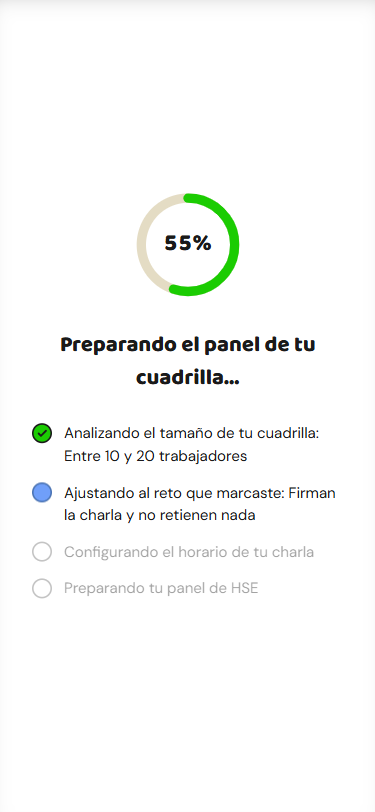
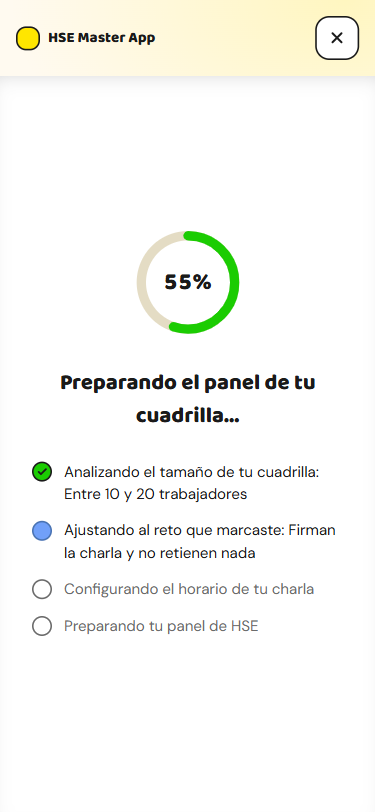
Sesion 4: corrige los defectos de la ronda 10 en onboarding y paywall
Onboarding: durante el loading (~5s) solo se oculta la barra de
progreso y la flecha de atras (#onbHeaderMedio) -> el logo y la X se
quedan visibles, cumpliendo la regla de latencia "3s+ necesita
cancelar". El resume desde el paywall ahora marca los 3 chips
guardados (cuadrilla/reto/horario), no solo el ultimo. Las lineas
pendientes del loading dejan de usar opacity 0.4 sobre texto negro
(contraste insuficiente) y pasan a --ink-2. El aviso de error del
input libre pasa a --rojo-texto. Se detecto y corrigio ademas un bug
del propio proceso de evidencia: la captura "oficial" del paso 1
mostraba el paso 4 porque sessionStorage de una prueba anterior
disparaba el auto-resume al recargar.

Paywall: los .pw-reveal parten de opacity:1 en CSS base para que un
fallo de JS no deje la pantalla en blanco. El CTA pasa de "Activar mi
prueba gratis" (no activaba nada aun) a "Crear mi acceso y activar la
prueba". El icono del casco usa currentColor. Se fusiona la frase de
dolor y la de beneficio en una sola linea.

diff --git a/onboarding.html b/onboarding.html
@@ -19,7 +19,7 @@
     --amarillo: #ffe600; --amarillo-sombra: #e0bf00;
     --verde: #1bcc02; --verde-sombra: #1b9f03;
     --azul: #3e7ef7; --azul-sombra: #0a4299;
-    --rojo: #ff4e0e; --rojo-sombra: #c75126;
+    --rojo: #ff4e0e; --rojo-sombra: #c75126; --rojo-texto: #a83d1a;
     --neutro-track: #e4dcc4;
     --font-display: 'Baloo 2', sans-serif; --font-body: 'DM Sans', sans-serif;
   }
@@ -38,7 +38,8 @@
 
   /* ===== HEADER: logo + atrás + barra de progreso ===== */
   .onb-header { display: flex; align-items: center; gap: 12px; padding: 16px; flex-shrink: 0; }
-  .onb-header.oculto { display: none; }
+  .onb-header-medio { flex: 1; display: flex; align-items: center; gap: 12px; }
+  .onb-header-medio.oculto { visibility: hidden; }
   .onb-logo { display: flex; align-items: center; gap: 8px; text-decoration: none; color: var(--ink);
               font-family: var(--font-display); font-weight: 800; font-size: 15px; flex-shrink: 0; }
   .onb-logo .dot { width: 24px; height: 24px; border-radius: 10px; background: var(--amarillo); border: 2px solid var(--ink); }
@@ -101,7 +102,7 @@
                           text-underline-offset: 3px; cursor: pointer; align-self: flex-start; }
   .onb-input-wrap { margin-top: 16px; display: none; flex-direction: column; gap: 12px; }
   .onb-input-wrap.show { display: flex; }
-  .onb-hint { font-size: 13px; color: var(--rojo-sombra); font-weight: 700; display: none; }
+  .onb-hint { font-size: 13px; color: var(--rojo-texto); font-weight: 700; display: none; }
   .onb-hint.show { display: block; }
   .onb-input {
     width: 100%; height: 56px; border-radius: 16px; border: 3px solid var(--ink); background: var(--surface);
@@ -148,9 +149,10 @@
   .onb-anillo.listo .pct svg { opacity: 1; transform: rotate(0deg) scale(1); }
   .onb-loading h2 { font-family: var(--font-display); font-size: 22px; font-weight: 800; text-align: center; }
   .onb-lineas { width: 100%; max-width: 320px; display: flex; flex-direction: column; gap: 14px; }
-  .onb-linea { display: flex; align-items: flex-start; gap: 12px; font-size: 15px; opacity: 0.4; }
-  .js-motion .onb-linea { transition: opacity 300ms ease; }
-  .onb-linea.vista { opacity: 1; }
+  .onb-linea { display: flex; align-items: flex-start; gap: 12px; font-size: 15px; }
+  .onb-linea .txt { color: var(--ink-2); }
+  .js-motion .onb-linea .txt { transition: color 300ms ease; }
+  .onb-linea.vista .txt { color: var(--ink); }
   .onb-linea .marca { width: 20px; height: 20px; border-radius: 999px; flex-shrink: 0; margin-top: 1px;
                        border: 2px solid var(--ink-2); display: flex; align-items: center; justify-content: center; }
   .onb-linea .marca svg { width: 11px; height: 11px; opacity: 0; }
@@ -185,11 +187,13 @@
 
 <div class="onb-header">
   <a href="landing.html" class="onb-logo" id="onbLogo" aria-label="Ir al inicio"><span class="dot"></span>HSE Master App</a>
-  <button type="button" class="onb-atras" id="onbAtras" aria-label="Volver a la pregunta anterior">
-    <svg width="20" height="20" viewBox="0 0 24 24" fill="none" stroke="currentColor" stroke-width="2.6" stroke-linecap="round" stroke-linejoin="round"><path d="m15 18-6-6 6-6"/></svg>
-  </button>
-  <div class="onb-progress"><div class="onb-progress-fill" id="onbProgressFill"></div></div>
-  <span class="onb-pct" id="onbPct">8%</span>
+  <div class="onb-header-medio" id="onbHeaderMedio">
+    <button type="button" class="onb-atras" id="onbAtras" aria-label="Volver a la pregunta anterior">
+      <svg width="20" height="20" viewBox="0 0 24 24" fill="none" stroke="currentColor" stroke-width="2.6" stroke-linecap="round" stroke-linejoin="round"><path d="m15 18-6-6 6-6"/></svg>
+    </button>
+    <div class="onb-progress"><div class="onb-progress-fill" id="onbProgressFill"></div></div>
+    <span class="onb-pct" id="onbPct">8%</span>
+  </div>
   <button type="button" class="onb-salir" id="onbSalir" aria-label="Salir del recorrido de bienvenida">
     <svg width="18" height="18" viewBox="0 0 24 24" fill="none" stroke="currentColor" stroke-width="2.6" stroke-linecap="round" stroke-linejoin="round"><path d="M18 6 6 18M6 6l12 12"/></svg>
   </button>
@@ -331,7 +335,7 @@
     atrasBtn.classList.toggle('show', paso > 1 && paso < 5);
   }
   function actualizarHeader(paso) {
-    document.querySelector('.onb-header').classList.toggle('oculto', paso === 5);
+    document.getElementById('onbHeaderMedio').classList.toggle('oculto', paso === 5);
   }
 
   let transicionando = false;
@@ -559,14 +563,19 @@
   animarChipsDelPaso(pasos[0]);
 
   // Si ya hay respuestas guardadas en esta sesión (viene de "volver" desde el paywall), no las repite desde cero.
+  function marcarChipGuardado(grupo, valor) {
+    if (!valor) return;
+    const chip = document.querySelector(`[data-grupo="${grupo}"] .onb-chip[data-valor="${CSS.escape(valor)}"]`);
+    if (chip) { chip.classList.add('seleccionado'); chip.setAttribute('aria-checked', 'true'); }
+  }
   try {
     const guardado = JSON.parse(sessionStorage.getItem('hseOnboarding') || 'null');
     if (guardado && guardado.cuadrilla && guardado.reto && guardado.horario) {
       Object.assign(respuestas, guardado);
       irAPaso(4, 'adelante');
-      const valorHorario = CSS.escape(guardado.horario);
-      const chipHorario = document.querySelector(`[data-grupo="horario"] .onb-chip[data-valor="${valorHorario}"]`);
-      if (chipHorario) { chipHorario.classList.add('seleccionado'); chipHorario.setAttribute('aria-checked', 'true'); }
+      marcarChipGuardado('cuadrilla', guardado.cuadrilla);
+      if (guardado.reto !== 'otra') marcarChipGuardado('reto', guardado.reto);
+      marcarChipGuardado('horario', guardado.horario);
     }
   } catch {}
 </script>

diff --git a/paywall.html b/paywall.html
@@ -41,13 +41,12 @@
   .pw-cerrar { width: 44px; height: 44px; border-radius: 16px; border: 3px solid var(--ink); background: var(--surface);
                color: var(--ink); display: flex; align-items: center; justify-content: center; cursor: pointer; text-decoration: none; }
 
-  .pw-reveal { opacity: 0; transform: translateY(14px); }
-  .js-motion .pw-reveal { transition: opacity 400ms ease, transform 400ms ease; }
-  .pw-reveal.in { opacity: 1; transform: translateY(0); }
+  .pw-reveal { opacity: 1; transform: none; }
+  .js-motion .pw-reveal { opacity: 0; transform: translateY(14px); transition: opacity 400ms ease, transform 400ms ease; }
+  .js-motion .pw-reveal.in { opacity: 1; transform: translateY(0); }
 
   .pw-headline { font-family: var(--font-display); font-size: 28px; font-weight: 800; line-height: 1.15; letter-spacing: -0.01em; }
   .pw-headline em { font-style: normal; color: var(--azul-sombra); }
-  .pw-sub { margin-top: 10px; font-size: 13px; color: var(--ink-2); font-weight: 700; }
   .pw-emocion { margin-top: 10px; font-size: 14px; font-weight: 700; color: var(--ink); line-height: 1.4; }
   .pw-emocion b { color: var(--rojo-texto); }
 
@@ -132,12 +131,11 @@
 
 <main class="wrap">
   <h1 class="pw-headline pw-reveal">Tu panel para <span id="pwCuadrilla">tu cuadrilla</span> está <em>listo</em></h1>
-  <p class="pw-emocion pw-reveal">Firman la charla en la mañana y a los 10 minutos ya tienen <b>la mano en la línea de fuego</b>.</p>
-  <p class="pw-sub pw-reveal">Desde hoy ves en 10 segundos quién de tu cuadrilla está listo para el pozo — hecho con tus 4 respuestas, sin tarjeta.</p>
+  <p class="pw-emocion pw-reveal">Firman la charla y a los 10 minutos ya tienen <b>la mano en la línea de fuego</b> — desde hoy ves en 10 segundos quién sí está listo para el pozo.</p>
 
   <div class="pw-bloque pw-reveal">
     <div class="pw-linea">
-      <div class="riel"><span class="nodo casco"><svg viewBox="0 0 24 24" fill="none" stroke="#1a1a1a" stroke-width="2.6" stroke-linecap="round" stroke-linejoin="round"><path d="M3.5 17.5h17"/><path d="M5 17.5Q5 7 12 7Q19 7 19 17.5"/><path d="M12 7V4"/></svg></span><span class="conector"></span></div>
+      <div class="riel"><span class="nodo casco"><svg viewBox="0 0 24 24" fill="none" stroke="currentColor" stroke-width="2.6" stroke-linecap="round" stroke-linejoin="round"><path d="M3.5 17.5h17"/><path d="M5 17.5Q5 7 12 7Q19 7 19 17.5"/><path d="M12 7V4"/></svg></span><span class="conector"></span></div>
       <div class="contenido">
         <p class="titulo">Hoy — tu cuadrilla ya corre el Pase, sin límites</p>
       </div>
@@ -181,7 +179,7 @@
   </div>
 
   <div class="pw-cta-wrap pw-reveal">
-    <button type="button" class="pw-boton" id="pwActivar">Activar mi prueba gratis de 14 días</button>
+    <button type="button" class="pw-boton" id="pwActivar">Crear mi acceso y activar la prueba</button>
     <p class="pw-reversibilidad">Hoy no pagas nada · Sin tarjeta</p>
     <p class="pw-garantia"><b>Compromiso del Primer Pase</b> — si tu cuadrilla no completa su primera charla de 3 minutos el día 1, te ayudamos sin costo</p>
   </div>

diff --git a/ESTADO.md b/ESTADO.md
@@ -1,7 +1,7 @@
 # ESTADO — HSE Master App
 Última actualización: 2026-10-17 | Sesión actual: 4
 
-⏸ CHECKPOINT — Sesión 4 (onboarding, paywall), ronda 9 de ambas YA ENTREGADA y YA CORREGIDA (sin relanzar ronda 10 todavía). Onboarding ronda 9: usabilidad 28/40, craft 14/20 (ambos bajaron). La ronda 9 explicó POR QUÉ venía oscilando desde la 7: marcó que paso 1 centrado + pasos 2/4 anclados arriba (la decisión de la ronda 8) rompe la heurística de consistencia — "misma composición, posición distinta salta entre preguntas". Se zanja así (no se vuelve a tocar sin evidencia nueva): TODAS las preguntas (1/2/4) anclan arriba por igual; centrado queda SOLO para reconocimiento (3) y loading (5), que son pantallas de otro tipo (interstitial, sin pregunta). También se corrigió: doble-tap en un chip ya no dispara 2 transiciones a la vez (bandera `transicionando`); `.onb-paso.entrando-der` ya tenía `opacity` faltante en la transición de "Atrás"; se quitó un selector CSS muerto de un refactor anterior. Paywall ronda 9: usabilidad 30/40, craft 14/20, copy 17/20 (los 3 bajaron tras pasar el umbral en craft/copy la ronda 8 — ver fixes). Fixes de paywall ronda 9: el rojo de texto #A83D1A (ronda 7) estaba huérfano fuera de los tokens → ahora es `--rojo-texto` en `:root`, documentado en FICHA-ARTE como un 3er tono del rojo solo para texto; el script completo quedó envuelto en try/finally para que un error en cualquier parte no deje la pantalla en blanco (el `revelarTodo()` corre siempre); el nodo "Día 12" compartía el mismo verde sólido que "Hoy" (ya ocurrió) → gana su propio estado amarillo intermedio; "Compromiso del Primer Pase" salió de la oración larga de reversibilidad y ahora es su propia tarjeta con borde y tinte, con peso visual propio; el check del plan elegido ahora aparece con transición de opacidad en vez de cortar seco. Próximo paso: commitear y relanzar la ronda 10 de ambas.
+⏸ CHECKPOINT — Sesión 4 (onboarding, paywall), ronda 10 de ambas YA ENTREGADA y YA CORREGIDA (sin relanzar ronda 11 todavía). Paywall ronda 10: usabilidad 33/40, craft 14/20, copy 18/20 (PASA) — fixes: `.pw-reveal` parte de `opacity:1` en CSS base (un fallo total de JS deja la pantalla visible, no en blanco); el CTA pasó de "Activar mi prueba gratis" (no activaba nada, solo navegaba) a "Crear mi acceso y activar la prueba"; el ícono del casco usa `currentColor`; se fusionó dolor+beneficio en una sola línea. El defecto 1 de esa ronda (logo y "volver" "distribuidos extremo a extremo") se midió en el DOM — 12px reales, igual que el CSS — es un falso positivo, no se tocó nada. Onboarding ronda 10: usabilidad 31/40, craft 14/20 — y destapó un bug real de MI PROPIO proceso de evidencia: el screenshot "oficial" de paso 1 en realidad mostraba el paso 4, porque sessionStorage traía respuestas de una prueba anterior y el auto-resume (de la ronda 8) saltaba de más — se limpia sessionStorage antes de cada captura oficial desde ahora. Defectos reales corregidos: durante el loading (~5s) el header entero desaparecía sin ningún control de salida visible (viola la regla de latencia "3s+ → cancelar") → ahora solo se oculta la barra de progreso/flecha de atrás (`#onbHeaderMedio`), el logo y la "X" se quedan siempre visibles; el resume solo marcaba el chip de horario, no los de cuadrilla/reto → ahora marca los 3 grupos guardados; las líneas pendientes del loading usaban opacity 0.4 sobre texto negro (~2.5:1 de contraste) → color directo a `--ink-2` (~5.7:1); el aviso de error del input libre usaba `--rojo-sombra` (al límite del AA) → pasa a `--rojo-texto` (mismo token ya creado para el paywall, ahora también en onboarding.html). Próximo paso: commitear ambos y relanzar la ronda 11.
 veredicto:landing — 24 rondas de revisión independiente corregidas con mejora real y medible (usabilidad 27→30, craft 12-14 oscilando). Sigue NO LISTA. Las correcciones restantes que el revisor pide (bajar de 4 a 2 acentos de color en toda la pantalla, variar el gesto de botón, rotar el amarillo más allá de lo que preserva "gold") chocan con decisiones ya aprobadas por el usuario (FICHA-ARTE.md, cosa juzgada) — documentadas abajo como razonadas, no pendientes sueltas. El único camino para subir más el puntaje de craft/identidad es que el USUARIO decida si quiere tocar esas decisiones aprobadas, no que el agente seguro siga iterando solo. defecto "cero estados de error en el funnel" sigue DELIBERADAMENTE sin resolver: no hay backend/checkout real todavía (Sesión 6, cualquier error sería fabricado). El footer legal ya NO dice "(pendiente)" con jerga interna (corregido en ronda 19 → "(próximamente)", lenguaje de cliente) pero las 3 páginas legales siguen sin redactarse de verdad — eso se resuelve en la sesión aparte de este sistema (47-LEGAL-FISCAL-Y-PRIVACIDAD.md). La promesa de "reembolso de 7 días" se QUITÓ de la landing (ronda 23) hasta que exista FICHA-MERCADO.md con el plazo real verificado contra Hotmart — ninguno bloquea esta pantalla puntual.
 
 ## Qué es esta app (3 líneas máximo)
@@ -104,8 +104,9 @@ Plataforma móvil B2B de microaprendizaje gamificado (estilo Duolingo) para capa
   4. [Carrusel] El recálculo de flechas/puntos en cada evento de scroll no usa `requestAnimationFrame` — podría sentirse tosco en celulares de gama media bajo prueba real (nunca verificado en un dispositivo físico, solo en navegador de escritorio emulando 375px).
   5. [Método] El screenshot de evidencia es de página completa muy reescalada (360×8711) y no permite verificar encaje óptico fino — si se retoma el pulido, conviene agregar recortes a resolución nativa de las secciones clave.
   Las demás tensiones de fondo (paleta multicolor, gesto de botón, falta de testimonios, mailto sin backend, footer legal) siguen siendo decisiones razonadas y documentadas por separado abajo, no parte de esta lista.
-- veredicto:onboarding — 9 rondas de revisión independiente (30→31→32→28→28→33→29→31→28/40 usabilidad; craft 10→12→12→10→13→14→16→15→14/20). La oscilación de las rondas 7-9 (anclar vs centrar) se zanjó con una regla fija (ver CHECKPOINT): preguntas siempre ancladas arriba, interstitials siempre centrados. docs/revisiones/onboarding-veredicto.md en disco es el de la ronda 9. No se declara lista hasta leer el veredicto de la ronda 10.
-- veredicto:paywall — 9 rondas de revisión independiente (31→35→35→32→31→31→29→34→30/40 usabilidad; craft 14→12→15→14→13→14→15→18→14/20; copy 17→16→17→16→17→17→16→18→17/20). Craft y copy retrocedieron tras un hex huérfano y un script sin red de seguridad (ver CHECKPOINT, ambos corregidos). docs/revisiones/paywall-veredicto.md en disco es el de la ronda 9. No se declara lista hasta leer el veredicto de la ronda 10.
+- veredicto:onboarding — 10 rondas de revisión independiente (30→31→32→28→28→33→29→31→28→31/40 usabilidad; craft 10→12→12→10→13→14→16→15→14→14/20). La oscilación de las rondas 7-9 (anclar vs centrar) sigue zanjada (no reapareció como defecto en la ronda 10); los defectos de la ronda 10 son distintos (latencia sin cancelar, resume incompleto, contraste) y ya se corrigieron. docs/revisiones/onboarding-veredicto.md en disco es el de la ronda 10. No se declara lista hasta leer el veredicto de la ronda 11.
+- veredicto:paywall — 10 rondas de revisión independiente (31→35→35→32→31→31→29→34→30→33/40 usabilidad; craft 14→12→15→14→13→14→15→18→14→14/20; copy 17→16→17→16→17→17→16→18→17→18/20). Copy vuelve a pasar el umbral; craft se queda justo debajo (14/20). docs/revisiones/paywall-veredicto.md en disco es el de la ronda 10. No se declara lista hasta leer el veredicto de la ronda 11.
+- metodologia-sessionStorage-entre-pantallas — la ronda 10 de onboarding detectó que una captura "oficial" de evidencia (paso 1) en realidad mostraba el paso 4, porque sessionStorage con respuestas de una prueba anterior (usada para ver el total de la cuadrilla en paywall) hacía que el auto-resume de onboarding.html saltara de más al recargar la página para el screenshot. Desde ahora: SIEMPRE `sessionStorage.clear()` antes de navegar a onboarding.html para capturar su paso 1, ya que esta app (a diferencia de landing/paywall) cambia de pantalla según lo que haya guardado.
 - cinco-opciones-reto-onboarding — RESUELTO en la ronda 4: la pregunta "¿cuál es tu reto más urgente?" tenía 5 chips de igual peso (4 dolores reales + "Otra cosa"), sobre el límite genérico de 4 del gate de carga cognitiva. En vez de solo documentar la tensión (como se hizo en rondas 1-3), se bajó "Otra cosa" a un enlace de texto secundario debajo de los 4 chips reales — conserva el escape hatch obligatorio de `50-DISENO-ONBOARDING-PAYWALL.md` → A2 ("el último ítem SIEMPRE es 'Otra cosa'") sin que compita en peso visual con los 4 dolores reales de FICHA-AVATAR.md. Los 4 chips siguen intactos (ninguno es relleno).
 - identidad-visual-duolingo (onboarding) — la ronda 1 marcó que el onboarding (tipografía chunky + bordes gruesos + botón presionable + amarillo/multicolor) se lee como el mismo lenguaje de Duolingo. Es la MISMA tensión ya documentada y cerrada para la landing (`gesto-boton-duolingo`, `forma-boton-duolingo`, `multicolor-60-30-10` abajo) — el onboarding reutiliza a propósito el mismo sistema visual de FICHA-ARTE.md (consistencia entre pantallas de la misma app), así que no es un hallazgo nuevo ni se redecide aquí: aplica la misma decisión razonada ya tomada para la landing.
 - metodologia-captura-scroll — desde la ronda 50: el screenshot oficial (`landing-375.png`) es de PÁGINA COMPLETA, así que nunca muestra elementos activados por scroll real (la barra fija inferior, el botón "volver arriba", el estado "past-oferta" si existiera). Cuando un veredicto dependa de verificar uno de esos elementos, no alcanza con leer el código: hay que probarlo en el navegador con scroll real (Playwright `browser_evaluate` moviendo `scrollTop` directo, NO `window.scrollTo` con `behavior` suave — en Chromium headless el scroll suave a veces no se mueve de verdad) antes de concluir que algo está roto.

diff --git a/docs/revisiones/onboarding-veredicto.md b/docs/revisiones/onboarding-veredicto.md
@@ -1,14 +1,14 @@
 # VEREDICTO revisor-visual — onboarding
-Fecha: 2026-10-17 00:00
+Fecha: 2026-10-17 12:00
 Screenshot: docs/revisiones/onboarding-375.png
-Usabilidad: 28/40
+Usabilidad: 31/40
 Craft: 14/20
 Copy (si vende): N-A
 Fidelidad (si hubo referencia): N-A
 Veredicto: NO LISTA
 Top defectos:
-1. [Selección de chips — pasos 1/2/4, onboarding.html:400-419] El click handler de cada chip programa `setTimeout(..., 300)` para llamar `irAPaso` sin ningún guard/flag de "transición en curso". Si el usuario toca dos chips rápido (o el mismo dos veces) dentro de esos 300ms, se disparan dos llamadas a `irAPaso(2,'adelante')`: la segunda encuentra `pasoActual` ya en 2, así que `actualEl` y `siguienteEl` apuntan al MISMO elemento, causando un glitch de animación sobre el paso ya activo. Fix: agregar una bandera `transicionando` en `irAPaso` (true al entrar, false al terminar el timeout de 320ms) e ignorar nuevos clics de chip mientras esté activa.
-2. [Pasos de pregunta, onboarding.html:56-60] `.onb-paso[data-paso="1"]` (y 3/5) usa `justify-content:center`, pero el paso 2 y el paso 4 (misma composición: encabezado + chips) quedan con el `flex-start` por defecto de la línea 57. Resultado visible: el contenido "salta" de posición verticalmente al avanzar del paso 1 (centrado, ver onboarding-375.png) al paso 2 (arriba), rompiendo la consistencia de layout entre pantallas del mismo tipo (heurística 4).
-3. [Transición "Atrás", onboarding.html:63-64 y 344-346] `.onb-paso.saliendo-izq` fija `opacity:0` además del transform, pero `.onb-paso.entrando-der` (usada como clase de salida al retroceder, línea 346) NO declara `opacity` — el paso saliente al avanzar se desvanece+desliza de forma pareja, mientras que al retroceder arranca con un salto de posición antes de empezar a desvanecerse (depende de qué regla de `transform` gane por orden de declaración). Fix: agregar `opacity: 0` a `.entrando-der` para que el "atrás" tenga el mismo fade+slide que "adelante".
-4. [Pasos 1, 3 y 5 — pantalla completa, ver onboarding-375.png y onboarding-375-b.png] El contenido centrado dentro de `.onb-paso` deja aproximadamente un 35-40% de la pantalla en blanco debajo (y arriba) del bloque pregunta+chips o reconocimiento+CTA. Es un patrón de "una sola pregunta domina" válido en el sistema, pero al verlo renderizado se percibe como pantalla a medio llenar, no como una pantalla "llena de valor". Fix: subir el tamaño del ícono/encabezado o sumar un elemento de apoyo visual (ilustración o dato de contexto) que ocupe el aire sin competir con la pregunta.
-5. [Código muerto, onboarding.html:428] El selector `'.onb-chip[data-grupo-padre="reto"]'` no coincide con ningún atributo presente en el markup (no existe `data-grupo-padre` en ningún `<button>`); es resto de un refactor anterior. Sin efecto visible hoy, pero riesgo de confusión en el próximo cambio. Fix: eliminarlo y dejar solo `'[data-grupo="reto"] .onb-chip'`.
+1. [Pasos 1/2/4 y 3/5 — ver los 3 screenshots] `.onb-paso` (onboarding.html:56-58) ancla el contenido arriba con `padding: 32px 16px 24px` + `justify-content:flex-start`, y en el paso con 3-4 chips (ver onboarding-375.png) queda ~140-150px de fondo crema vacío bajo el último chip (~18% del alto de pantalla). En los pasos centrados (onboarding.html:60 — paso 3 y 5, ver onboarding-375-b.png y onboarding-375-c.png) el mismo contenido deja bandas vacías simétricas arriba Y abajo sin ningún elemento que las ocupe. No se marca como inconsistencia (es un patrón ya decidido), pero sí como pantalla "a medio llenar" (heurística 8 / Regla de Oro 7 "cero vacío muerto"). Fix: sumar un elemento de apoyo (ilustración de contexto, dato del sector, o agrandar el ícono/encabezado) que ocupe el espacio sobrante sin competir con la pregunta, en vez de dejarlo en blanco.
+2. [Loading, onboarding.html:333-335 y 541-555] `actualizarHeader` oculta el header completo (`display:none`, línea 41) en el paso 5, y la secuencia de carga suma ~150+700+900+900+900+500 ≈ 4950ms antes de redirigir a `paywall.html` (línea 555) — casi 5 segundos sin ningún control visible de cancelar/salir, incumpliendo la propia regla de latencia del sistema ("3s+ → progreso + cancelar", 15-PATRONES-UX.md). Si la carga real llegara a trabarse (p. ej. conectada a un backend real en vez del `setTimeout` fijo de hoy), el usuario queda atrapado sin salida. Fix: mantener visible el botón "X" (o un "Cancelar") durante el paso 5, aunque el resto del header se oculte.
+3. [Resume de sesión, onboarding.html:561-571] Al rehidratar `respuestas` desde `sessionStorage` y saltar a `irAPaso(4,'adelante')`, solo se marca visualmente `seleccionado`/`aria-checked` en el chip de `horario` (líneas 567-569) — los grupos `cuadrilla` y `reto` NO reciben la misma marca. Si el usuario retoma el onboarding (vuelve desde el paywall) y pulsa "Atrás" hasta el paso 2 o 1, ve las opciones sin ninguna marcada pese a que ya había elegido una — rompe la heurística 6 (reconocer mejor que recordar) justo en el camino de "volver" que la heurística 3 promete. Fix: aplicar el mismo bloque de `classList.add('seleccionado')` + `aria-checked` a los chips de `cuadrilla` y `reto` (y restaurar el input de texto libre si `respuestas.reto === 'otra'`).
+4. [Loading — líneas pendientes, onboarding.html:151-153, ver onboarding-375-c.png "Configurando el horario de tu charla" / "Preparando tu panel de HSE"] `.onb-linea` arranca en `opacity: 0.4` sobre texto `--ink` (#1a1a1a) directamente encima de fondo blanco — el resultado efectivo (~rgb 163,163,163) mide ≈2.5:1 de contraste, muy por debajo del mínimo AA 4.5:1 para texto de 15px. Un usuario con baja visión no puede leer qué pasos faltan. Fix: usar `--ink-2` (#6b6b6b, ya verificado ~5.7:1) para el estado pendiente en vez de opacidad sobre negro, o subir el opacity mínimo a ~0.6.
+5. [Hint de error, onboarding.html:22 y 104] `.onb-hint` usa `color: var(--rojo-sombra)` (#c75126) a 13px/700 sobre el fondo blanco de `.onb-stage` — mide ≈4.53:1, al borde mismo del mínimo AA (4.5:1), con el mismo tono que la ficha ya documentó como insuficiente (~4.36:1) en otro fondo. Fix: usar aquí también `--rojo-texto` (#A83D1A, ~6:1) para cualquier texto rojo de cuerpo, no solo en paywall.html.

diff --git a/docs/revisiones/paywall-veredicto.md b/docs/revisiones/paywall-veredicto.md
@@ -1,15 +1,14 @@
-# VEREDICTO revisor-visual — paywall (activación de prueba gratis)
+# VEREDICTO revisor-visual — paywall
 Fecha: 2026-10-17 00:00
 Screenshot: docs/revisiones/paywall-375.png
-Usabilidad: 30/40
+Usabilidad: 33/40
 Craft: 14/20
-Copy (si vende): 17/20
+Copy (si vende): 18/20
 Fidelidad (si hubo referencia): N-A
 Veredicto: NO LISTA
-
 Top defectos:
-1. [paywall.html línea 52] `.pw-emocion b { color: #a83d1a; }` es un hex suelto que no existe en ningún token de `:root` (líneas 17-25) ni en la paleta fija de FICHA-ARTE.md (línea 26: rojo #FF4E0E / rojo-sombra #C75126, "cada uno con su propio uso fijo, nunca intercambiables") — en pantalla se ven DOS tonos de rojo/naranja distintos a simple vista (el de "la mano en la línea de fuego" y el del badge "2 MESES GRATIS"), rompiendo la disciplina de acentos fijos. El valor parece elegido a propósito para pasar contraste AA sobre blanco (≈6.3:1, mientras `--rojo` solo da ≈3.3:1) → fix: declararlo como token explícito (p. ej. `--rojo-texto: #a83d1a`) y documentarlo en FICHA-ARTE.md como la variante AA-safe para texto de riesgo sobre fondo claro, en vez de dejarlo como hex huérfano sin registro en la ficha de marca.
-2. [paywall.html líneas 44 y 240-245] Todo el contenido principal nace con `opacity: 0` (`.pw-reveal`) y solo se revela si el script llega sano hasta el `forEach` final de la línea 242; no hay `try/finally` global ni fallback en CSS puro (`@keyframes`/`<noscript>`). Si cualquier línea anterior del script (191-238) lanza una excepción no prevista, TODA la pantalla —titular, timeline, planes, CTA, texto de confianza— queda en blanco sin ningún mensaje de error, violando la regla "la app nunca muestra pantalla blanca" → fix: envolver el script completo en un único `try { ... } finally { reveals.forEach(el => el.classList.add('in')) }`, o quitar el `opacity:0` por defecto y animar solo con `@keyframes` CSS (dejando el stagger de JS como mejora opcional, no como requisito para ver el contenido).
-3. [paywall.html líneas 136 y 142, bloque timeline] El nodo de "Hoy" (ya ocurriendo) y el nodo de "Día 12" (evento futuro, a 12 días de distancia) comparten el mismo verde sólido por defecto (`.nodo { background: var(--verde) }`), mientras que solo "Día 14" usa `.outline` para distinguirse — un usuario que mira la línea de tiempo puede leer "Día 12" como un hito ya cumplido en lugar de uno que todavía falta → fix: dar a "Día 12" un estado visual intermedio (p. ej. `.outline` con relleno parcial o `var(--neutro-track)`) para separar claramente "ya pasó" de "va a pasar" de "tú decides".
-4. [paywall.html línea 181] La línea de reversibilidad mete tres ideas de peso muy distinto en una sola oración ("Hoy no pagas nada · Sin tarjeta · **Compromiso del Primer Pase** (tu primera charla de 3 minutos): si no la completan el día 1, te ayudamos sin costo") — la garantía nombrada, que es la pieza que más pesa contra la objeción "es otro gasto" (FICHA-AVATAR.md, objeción 5), queda con el mismo tamaño/peso que los dos recordatorios cortos → fix: separar "Compromiso del Primer Pase" en su propia línea o chip con jerarquía propia, debajo de las dos frases cortas.
-5. [paywall.html líneas 83 y 103-104] La tarjeta de plan transiciona su fondo y borde en 150ms al elegirla (línea 83), pero el check de la marca seleccionada (`.pw-plan .marca svg { opacity: 0 }` / `.elegido .marca svg { opacity: 1 }`, líneas 103-104) no tiene ninguna `transition` — aparece/desaparece de golpe mientras el resto de la tarjeta se anima suave, un detalle de pulido que un ojo entrenado nota al cambiar de plan → fix: agregar `transition: opacity 150ms ease` a `.pw-plan .marca svg`.
+1. [Header, paywall.html líneas 37-42] `.pw-header` no define `justify-content: space-between` ni `.pw-cerrar` tiene `margin-left:auto` — con flexbox por defecto (flex-start) el logo y el botón de volver deberían renderizar pegados a la izquierda, no distribuidos extremo a extremo como se ve en el screenshot capturado. Verificar de inmediato si el screenshot quedó desactualizado respecto al código actual (riesgo crítico: la pantalla real puede no coincidir con lo puntuado aquí) → fix: agregar `justify-content: space-between;` a `.pw-header` y re-capturar.
+2. [Hero, líneas 44-46 CSS + script 196-253] Todo bloque `.pw-reveal` arranca en `opacity:0` y SOLO la clase `.in`, añadida por JavaScript, lo hace visible — si el JS no corre (bloqueado, CSP, error de red en el script), toda la pantalla bajo el header queda en blanco permanente, sin `<noscript>` de respaldo → fix: fijar `opacity:1` por defecto en CSS y dejar que solo la transición de entrada (no la visibilidad base) dependa de JS.
+3. [CTA, línea 184 + handler líneas 247-251] El botón dice "Activar mi prueba gratis de 14 días" pero al tocarlo no activa nada: navega a `login.html` sin avisar que falta crear el acceso primero — rompe la expectativa que el propio copy genera (heurística 1/9) → fix: microcopy bajo el botón ("Último paso: crea tu acceso para activarla") o cambiar el CTA a algo como "Crear mi acceso y activar prueba".
+4. [Íconos SVG, línea 140 (`stroke="#1a1a1a"`) y líneas 166/175 (`stroke="#fff"`)] Colores hardcodeados en hex dentro de los SVG en vez de heredar los tokens del tema (`--ink`, `--surface`), violando la regla de "tokens para todo color, nunca hex directo" → fix: usar `stroke="currentColor"` heredando `color` del contenedor.
+5. [Hero, líneas 134-136] Tres bloques de texto corridos (titular + frase de dolor en rojo + subtítulo del mecanismo) antes de cualquier interacción en la pantalla que más debe convertir — redundancia que alarga la lectura inicial → fix: fusionar `.pw-emocion` y `.pw-sub` en una sola línea de refuerzo (dolor → mecanismo) de máximo 2 renglones.
